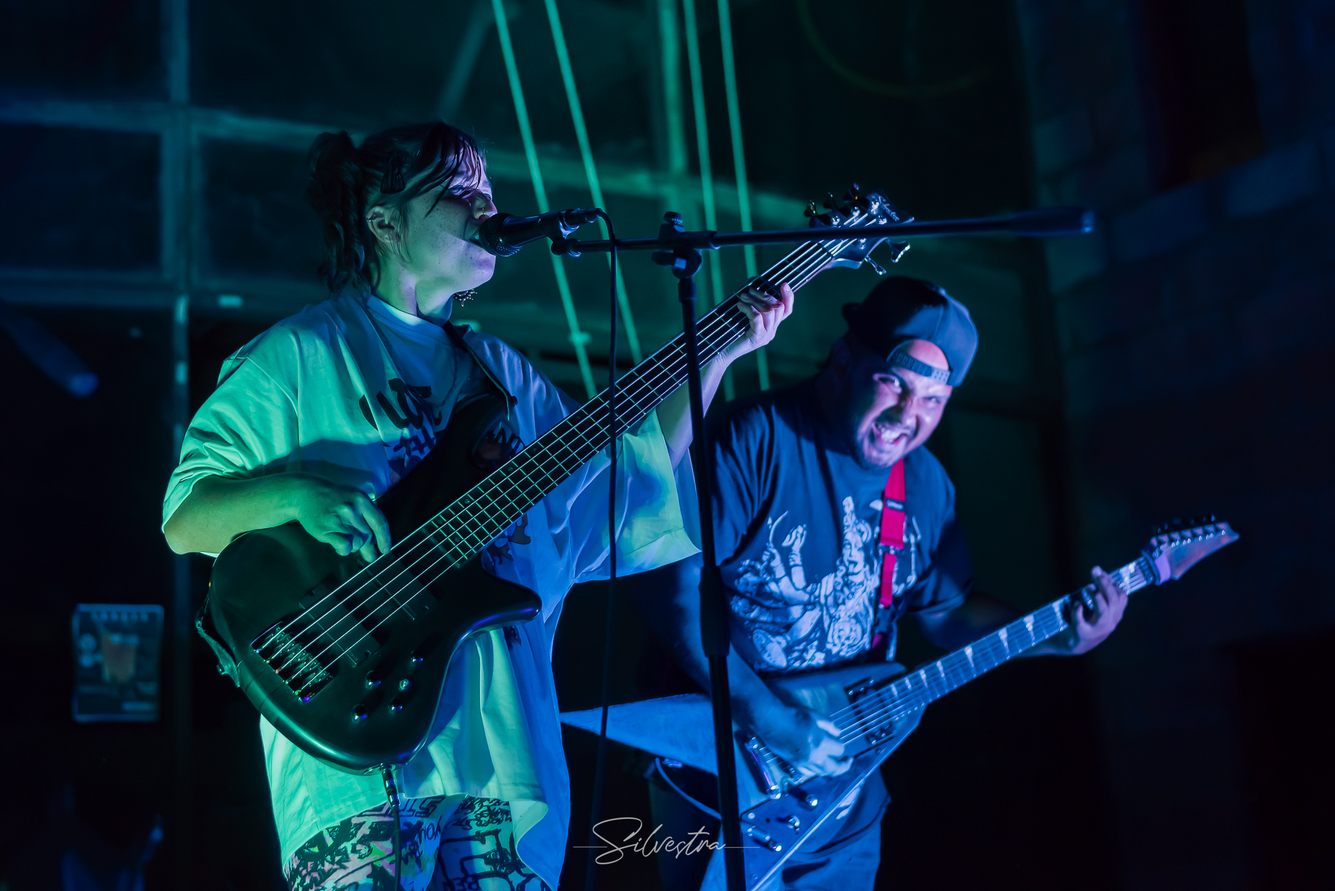
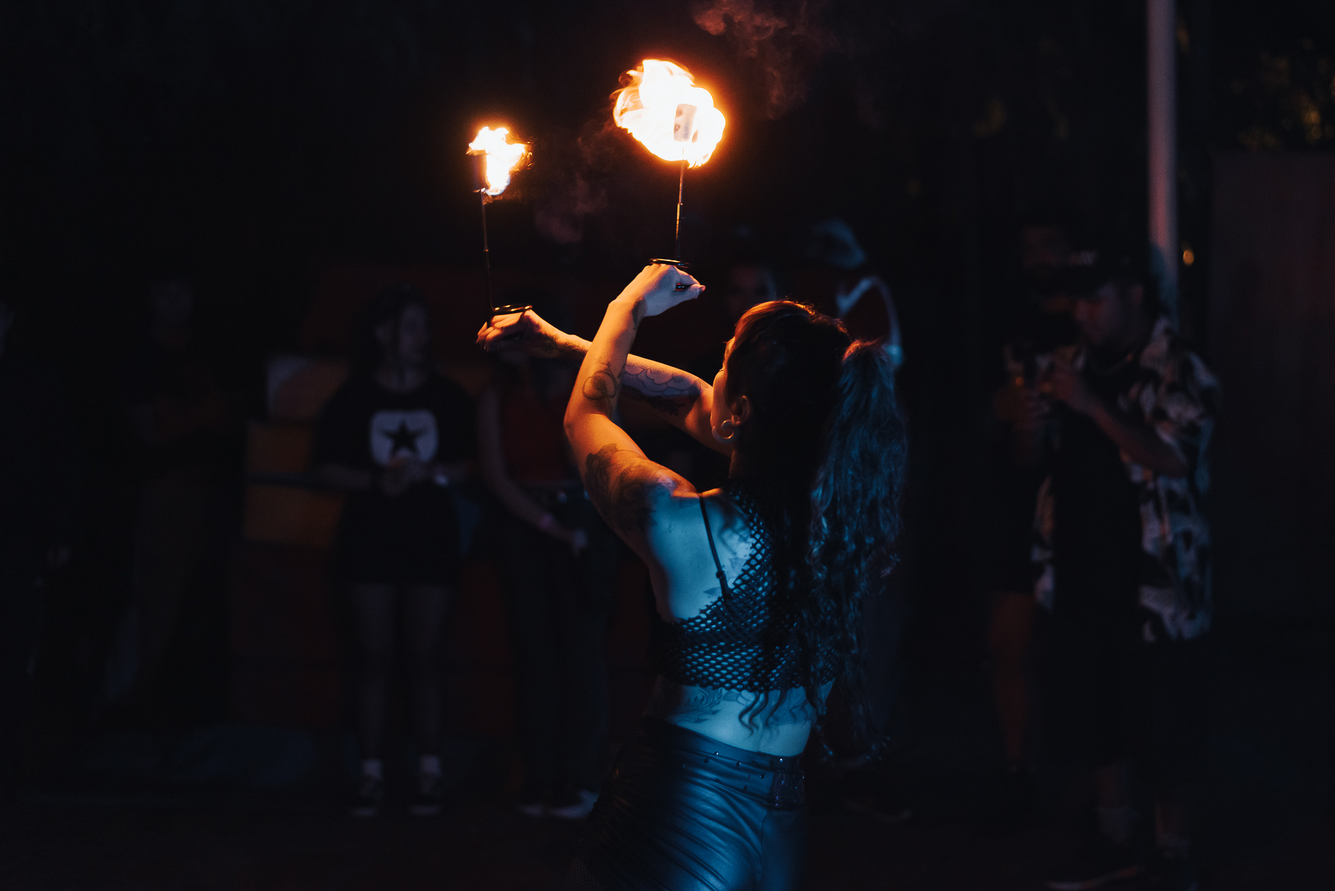
Ajuste menor en interfaz

diff --git a/templates/comunidad.html b/templates/comunidad.html
@@ -42,7 +42,7 @@
                 Talleres
             </a>
 
-            <a href="{{ url_for('terapias') }}">
+            <a href="#">
                 Servicios terapéuticos
             </a>
 
@@ -94,19 +94,19 @@
             </article>
 
 
-            <!-- ÁGUILAS SATIVAS Y PETIT -->
+            <!-- ÁGUILAS SATIVAS Y PETIT VOLANT-->
 
             <article class="tarjeta">
 
                 <img
                     src="{{ url_for('static',
                     filename='img/comunidad/aguilas.jpg') }}"
-                    alt="Águilas Sativas y Petit"
+                    alt="Águilas Sativas y Petit Volant"
                 >
 
                 <div class="contenido-tarjeta">
 
-                    <h2>Águilas Sativas y Petit</h2>
+                    <h2>Águilas Sativas y Petit Volant</h2>
 
                     <p>
                         Actividades y encuentros de nuestra comunidad.
